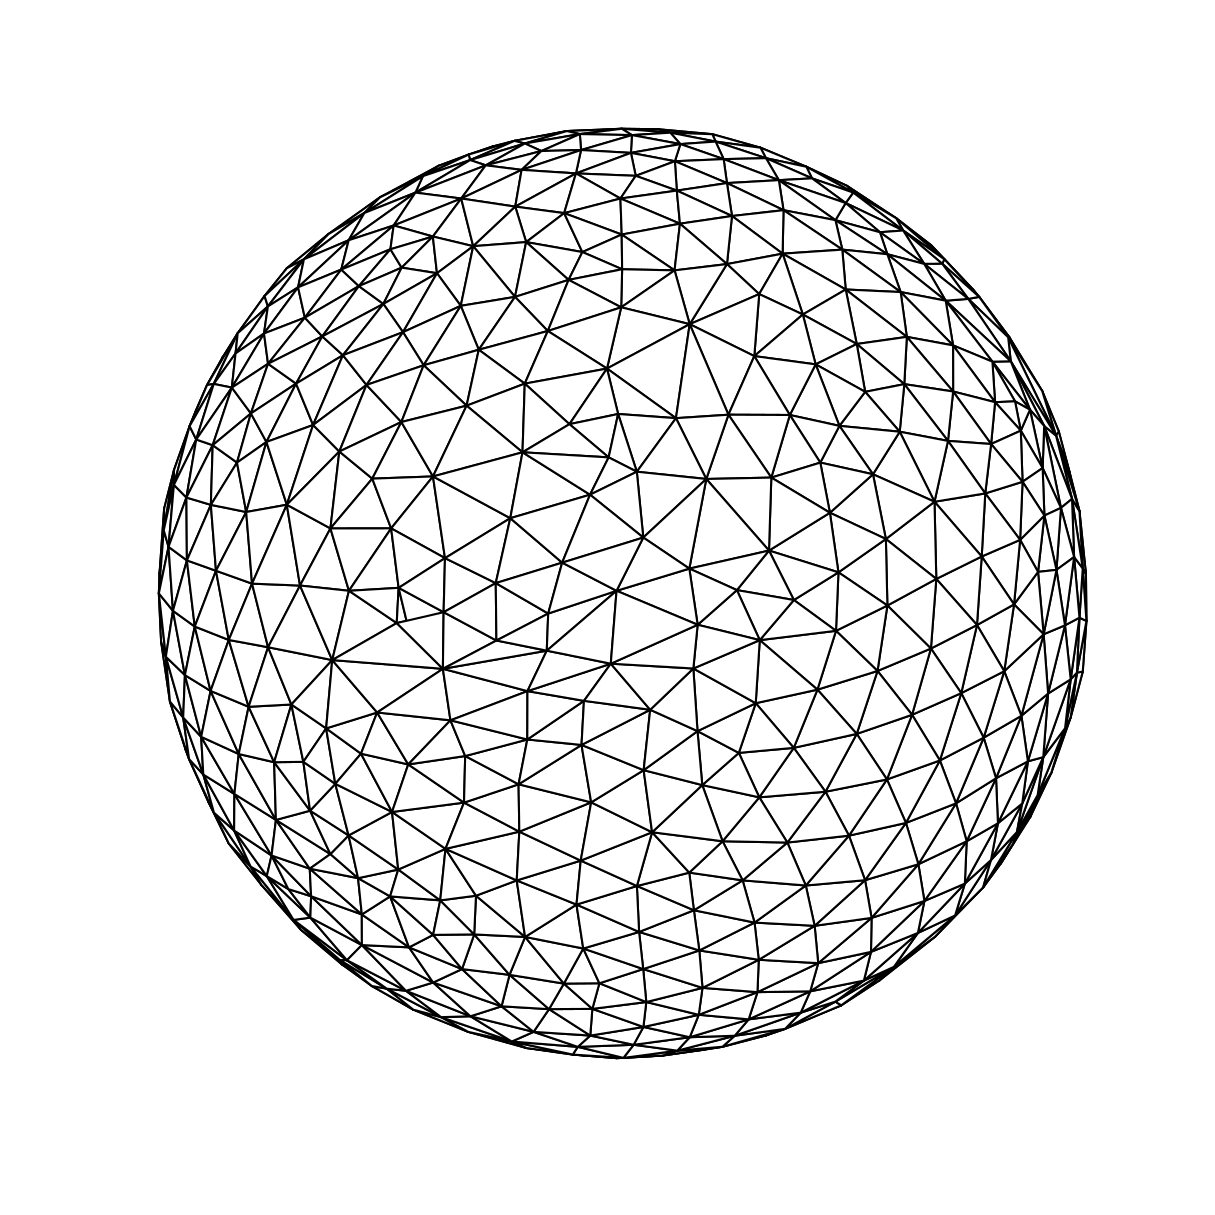
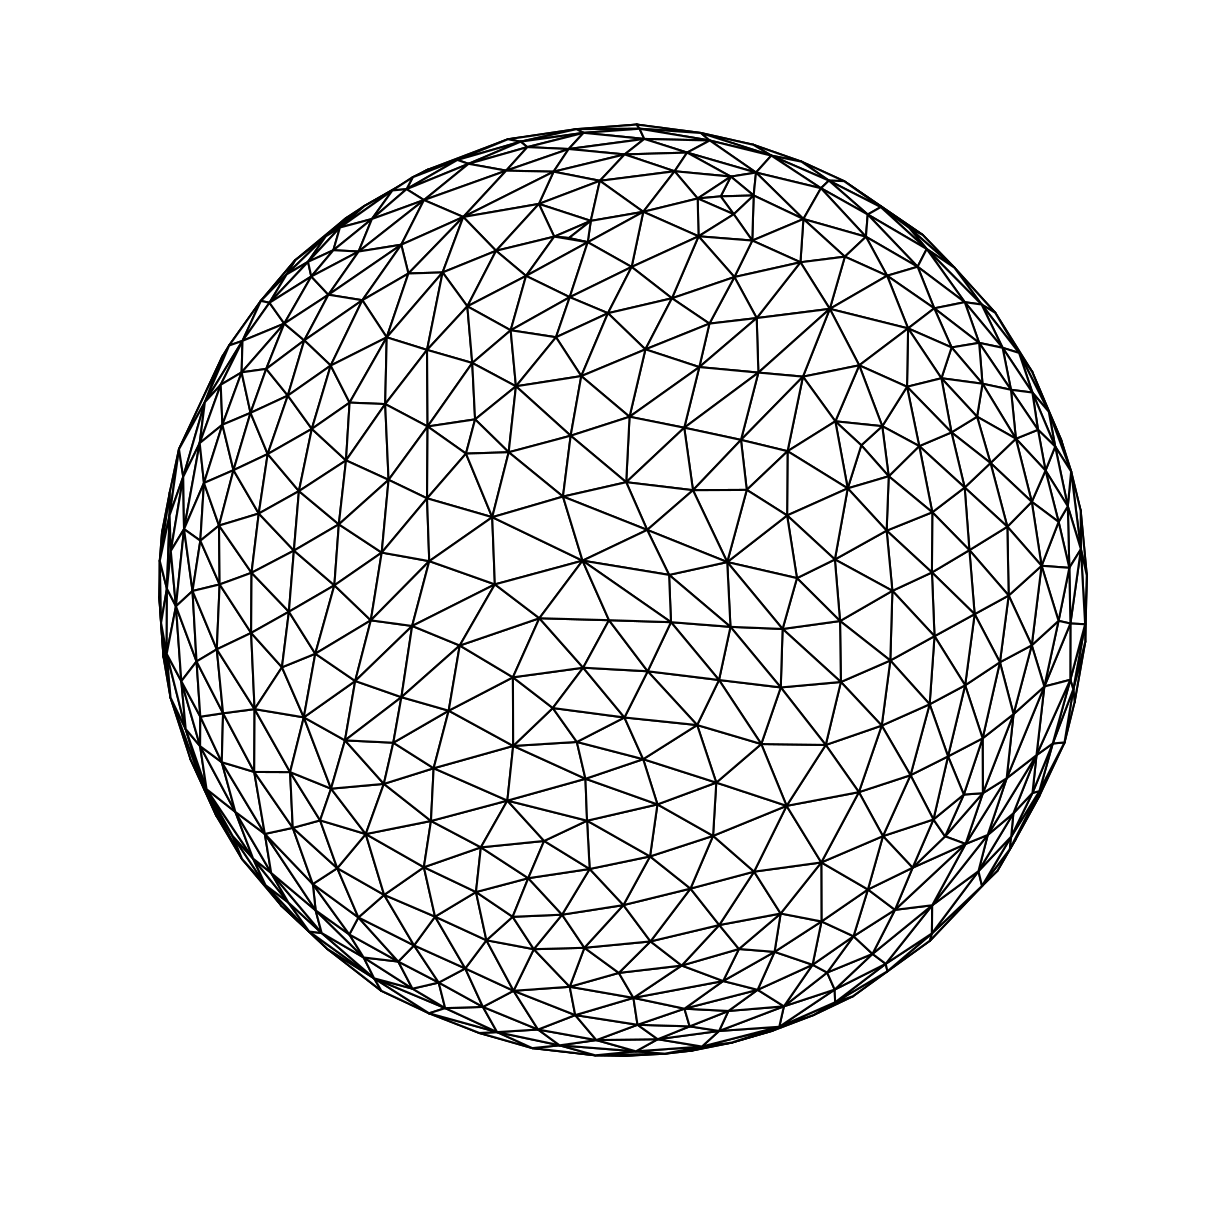
add examples

Changed region(s): [[0.1218, 0.0914, 0.9136, 0.8831]]

diff --git a/examples/sphere_5.py b/examples/sphere_5.py
@@ -12,8 +12,8 @@ remesher.isotropic_remeshing(
     .14, 
     iter=10, 
     explicit=True, 
-    foldover=10,
-    sliver=False
+    foldover=0,
+    sliver=True
 )
 
 remesher.model.topology_checker(clean=True)
@@ -26,4 +26,4 @@ geometric_plotter.plot_trisurf(ax, np.asarray(remesher.model.vertices), np.asarr
 
 geometric_plotter.config_ax(ax, (50,50,0), 1.5)
 
-geometric_plotter.execute(folder='E:\Repositorios\isotropic_remesher\export\\', name='sphere_4')
+geometric_plotter.execute(folder='E:\Repositorios\isotropic_remesher\export\\', name='sphere_5')

diff --git a/examples/sphere_2.py b/examples/sphere_2.py
@@ -10,13 +10,13 @@ mesh = HalfEdgeModel(sphere.vertices, sphere.triangles)
 remesher = IsotropicRemesher(mesh)
 remesher.isotropic_remeshing(
     .14, 
-    iter=20, 
-    explicit=True, 
-    foldover=10,
-    sliver=False
+    iter=10, 
+    explicit=False, 
+    foldover=0,
+    sliver=True
 )
 
-remesher.model.clean()
+remesher.model.topology_checker(clean=True)
 
 geometric_plotter.set_export()
 

diff --git a/examples/sphere_1.py b/examples/sphere_1.py
@@ -10,13 +10,13 @@ mesh = HalfEdgeModel(sphere.vertices, sphere.triangles)
 remesher = IsotropicRemesher(mesh)
 remesher.isotropic_remeshing(
     .14, 
-    iter=20, 
-    explicit=True, 
-    foldover=0,
+    iter=10, 
+    explicit=False, 
+    foldover=10,
     sliver=False
 )
 
-remesher.model.clean()
+remesher.model.topology_checker(clean=True)
 
 geometric_plotter.set_export()
 

diff --git a/examples/sphere_3.py b/examples/sphere_3.py
@@ -10,13 +10,13 @@ mesh = HalfEdgeModel(sphere.vertices, sphere.triangles)
 remesher = IsotropicRemesher(mesh)
 remesher.isotropic_remeshing(
     .14, 
-    iter=20, 
+    iter=10, 
     explicit=True, 
-    foldover=10,
-    sliver=True
+    foldover=0,
+    sliver=False
 )
 
-remesher.model.clean()
+remesher.model.topology_checker(clean=True)
 
 geometric_plotter.set_export()
 

diff --git a/examples/sphere_0.py b/examples/sphere_0.py
@@ -10,13 +10,13 @@ mesh = HalfEdgeModel(sphere.vertices, sphere.triangles)
 remesher = IsotropicRemesher(mesh)
 remesher.isotropic_remeshing(
     .14, 
-    iter=20, 
+    iter=10, 
     explicit=False, 
     foldover=0,
     sliver=False
 )
 
-remesher.model.clean()
+remesher.model.topology_checker(clean=True)
 
 geometric_plotter.set_export()
 

diff --git a/README.md b/README.md
@@ -44,7 +44,7 @@ remesher.isotropic_remeshing(
 ```
 ### Examples
 
-In all cases ```L = .14```, ```iter = 20``` and the following surface as input:
+In all cases ```L = .14```, ```iter = 10``` and the following surface as input:
 
 <img src="export/sphere_input.png" alt="drawing" width="400"/>
 
@@ -52,20 +52,22 @@ In all cases ```L = .14```, ```iter = 20``` and the following surface as input:
 
 <img src="export/sphere_0.png" alt="drawing" width="400"/>
 
-**Case 1**: ```explicit = False```, ```foldover = 0``` and ```sliver = True```. 
-
-<img src="export/sphere_4.png" alt="drawing" width="400"/>
-
-**Case 2**: ```explicit = True```, ```foldover = 0``` and ```sliver = False```. The fixed vertices promoted self-intertersections.
+**Case 1**: ```explicit = False```, ```foldover = 10``` and ```sliver = False```. 
 
 <img src="export/sphere_1.png" alt="drawing" width="400"/>
 
-**Case 3**: ```explicit = True```, ```foldover = 10``` and ```sliver = False```. The foldover parameter help us to avoid the self-intersections.
+**Case 2**: ```explicit = False```, ```foldover = 0``` and ```sliver = True```. 
 
 <img src="export/sphere_2.png" alt="drawing" width="400"/>
 
-**Case 4**: ```explicit = True```, ```foldover = 10``` and ```sliver = True```. The sliver parameter enhance the compactness of the triangles.
+**Case 3**: ```explicit = True```, ```foldover = 0``` and ```sliver = False```. The fixed vertices promoted self-intertersections.
 
 <img src="export/sphere_3.png" alt="drawing" width="400"/>
 
+**Case 4**: ```explicit = True```, ```foldover = 10``` and ```sliver = False```. The foldover parameter help us to avoid the self-intersections.
 
+<img src="export/sphere_4.png" alt="drawing" width="400"/>
+
+**Case 4**: ```explicit = True```, ```foldover = 0``` and ```sliver = True```. The sliver parameter enhance the compactness of the triangles.
+
+<img src="export/sphere_5.png" alt="drawing" width="400"/>
